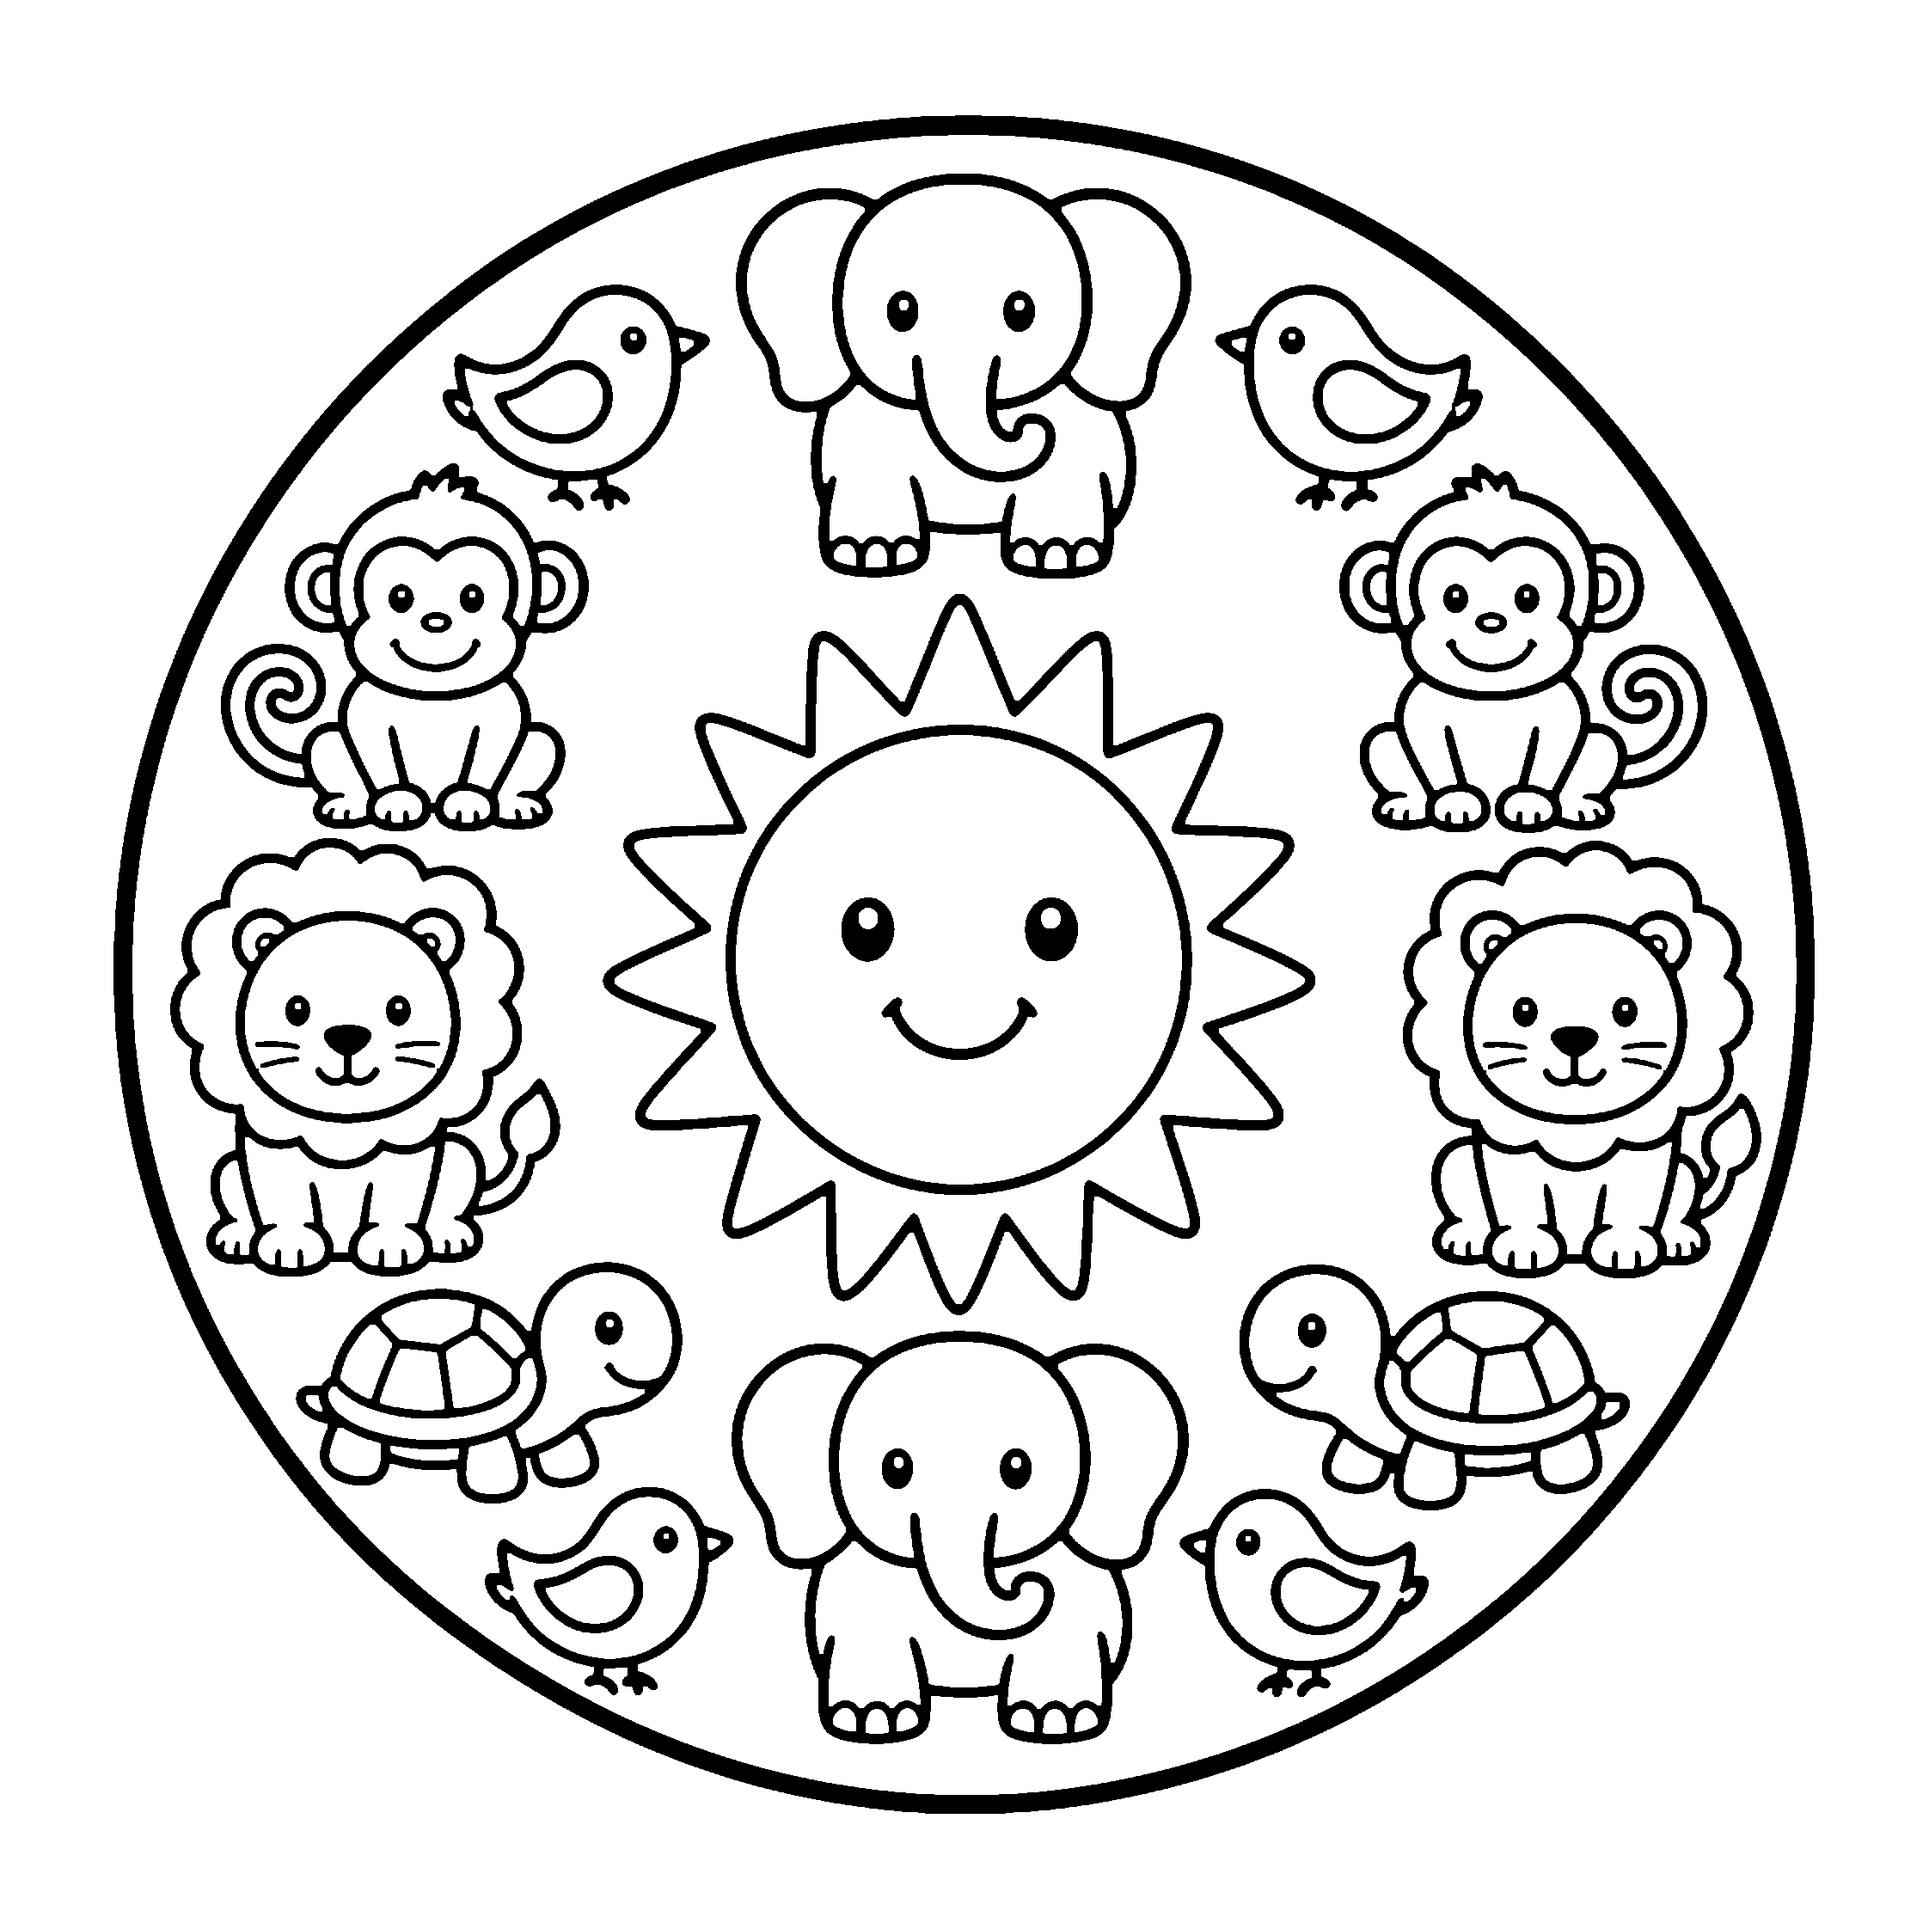
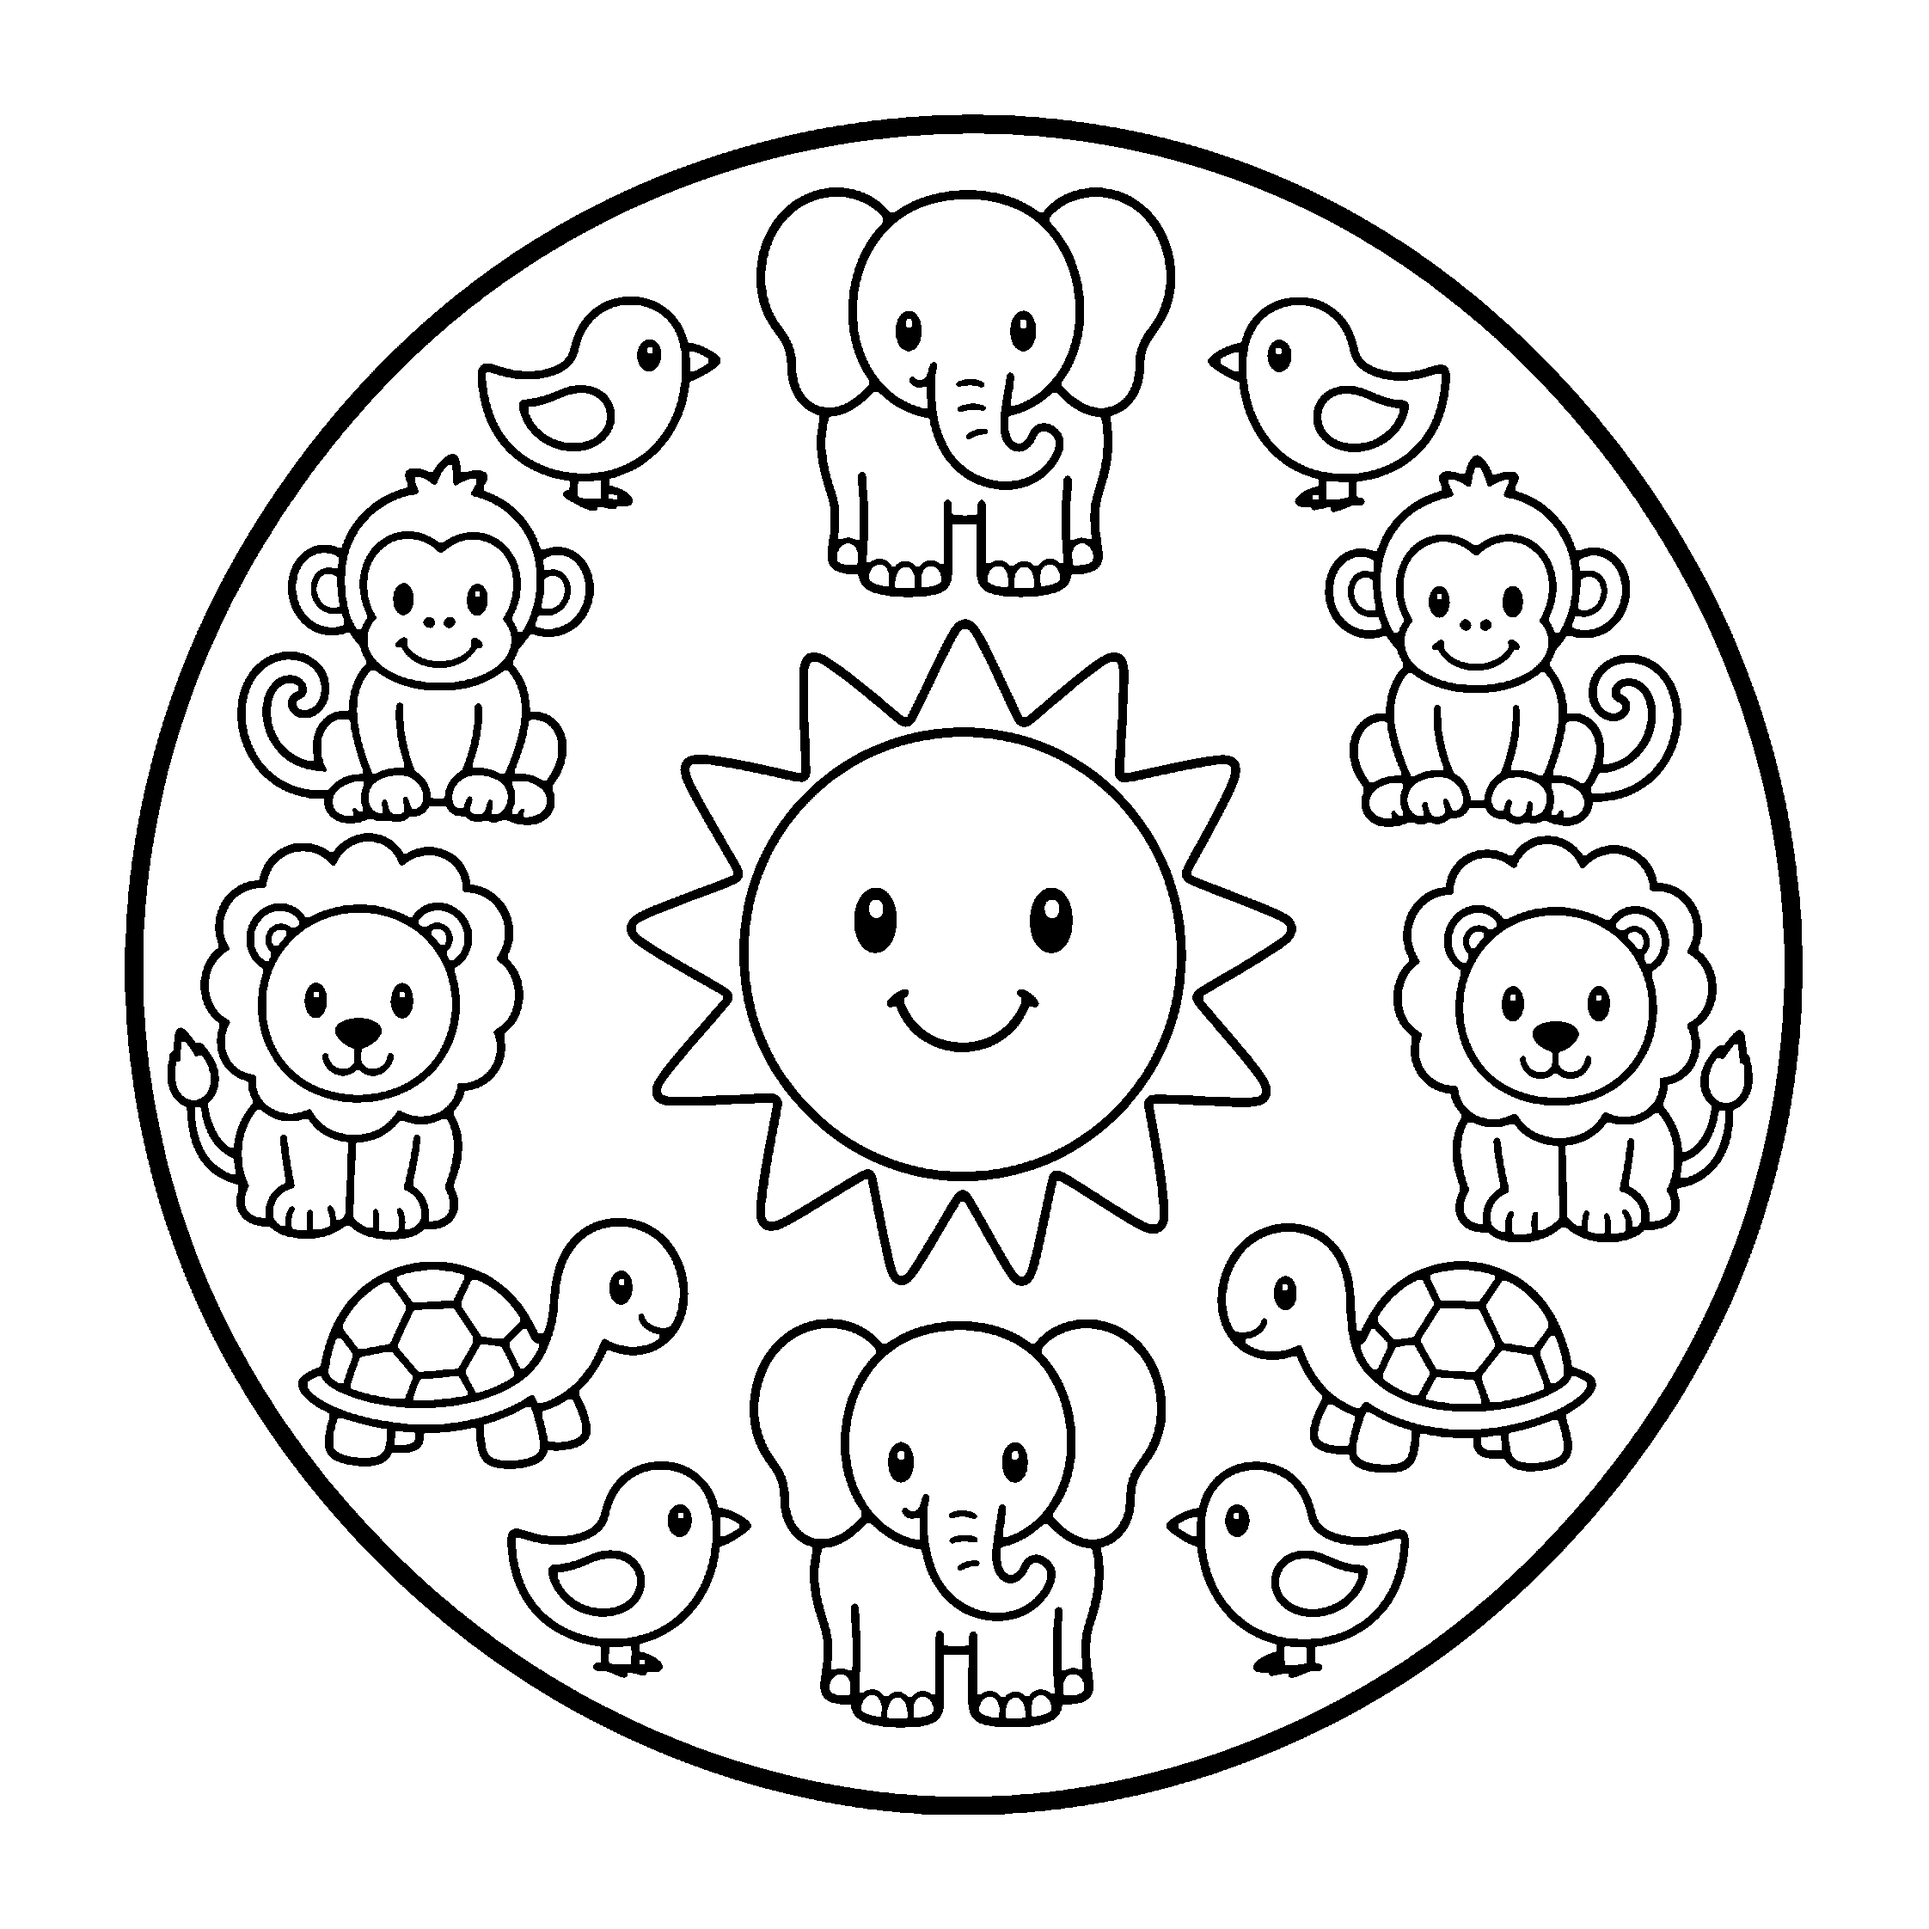
fix: regenerar mándala 2 (círculo continuo) + botón Mi biblioteca en actividades
- mandalas_arte/2.png: Pablo seguía viendo la versión sin círculo (probablemente CDN/
  caché de Cloudflare sirviendo una copia vieja pese al cache-buster ?v=). Regenerada
  de cero con círculo exterior GRUESO y CONTINUO explícito en el prompt. Verificado
  rigurosamente: flood-fill desde afuera del círculo (4 esquinas) NO alcanza el centro
  (sin fugas), sin tinta en los bordes de la hoja (sin cortes).

- actividades_player.html: el cuaderno de actividades para chicos no tenía forma de
  volver a Mi biblioteca (el mandalas_player.html ya lo tiene desde el commit anterior;
  actividades_player.html se armó antes y no lo sumó). Nuevo botón 📚 SIEMPRE visible en
  el header (a diferencia de '← Volver al menú', que solo aparece dentro de un juego),
  con href fijo a https://casatridimensional.com.ar/mi-cuenta.

Claude-Session: https://claude.ai/code/session_01TCHUMbo3tfF67vveHZr6ro

diff --git a/actividades_player.html b/actividades_player.html
@@ -69,7 +69,8 @@ h1, h2, h3, .fx { font-family: "Baloo", "Nunito", sans-serif; font-weight: 600; 
   background: var(--card); border-radius: 999px; box-shadow: var(--sombra);
   font-family: "Baloo", sans-serif; font-size: 21px; border: none; color: var(--ink);
 }
-button.pill:active { transform: scale(.94); }
+button.pill:active, a.pill:active { transform: scale(.94); }
+#btnBiblioteca { text-decoration: none; }
 #btnAtras { display: none; }
 #btnAtras.ver { display: flex; }
 
@@ -375,6 +376,7 @@ button.pill:active { transform: scale(.94); }
 <div id="cargando"><div class="aro"></div><div class="fx" style="font-size:22px">Preparando tus juegos…</div></div>
 
 <header id="hdr">
+  <a href="https://casatridimensional.com.ar/mi-cuenta" class="pill" id="btnBiblioteca" aria-label="Volver a Mi biblioteca">📚</a>
   <button id="btnAtras" class="pill" aria-label="Volver al menú">←</button>
   <div class="avatar"><img id="mascoHdr" alt="" src=""></div>
   <div id="hdrTitulo"><b id="hdrNombre">¡Hola!</b><span id="hdrSub"></span></div>
